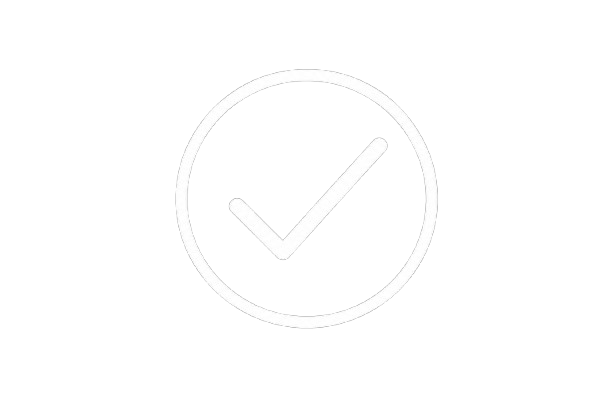
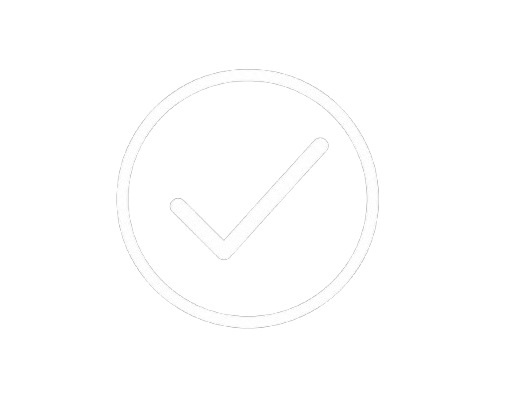
Fix apply job modal again

diff --git a/frontend/src/pages/employer/dashboard/ForInterview.jsx b/frontend/src/pages/employer/dashboard/ForInterview.jsx
@@ -1006,8 +1006,6 @@ const HiringStageModal = ({
     const added = await onAddCustom(value);
     if (added) {
       setCustomStage('');
-      setSelectedStage(value);
-      await onSelect(value);
     }
   };
 
@@ -1059,7 +1057,7 @@ const HiringStageModal = ({
               </button>
             </div>
             <p className="mt-2 text-xs text-gray-500">
-             The stage you add is applied to this applicant right away.
+              The stage you add will appear below. Select it when you are ready to apply it.
             </p>
             {localError ? <p className="mt-2 text-xs font-medium text-red-600">{localError}</p> : null}
           </div>
